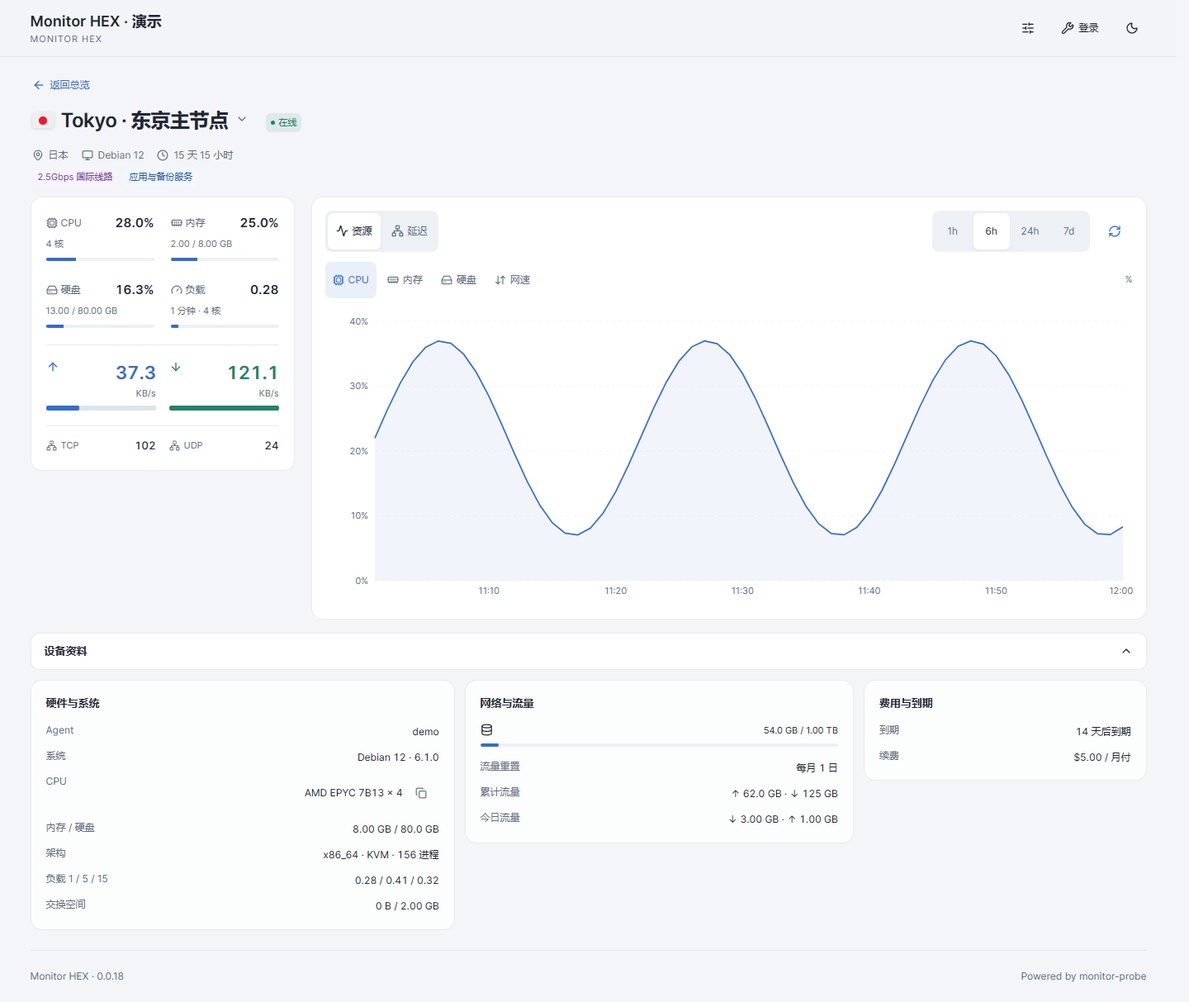
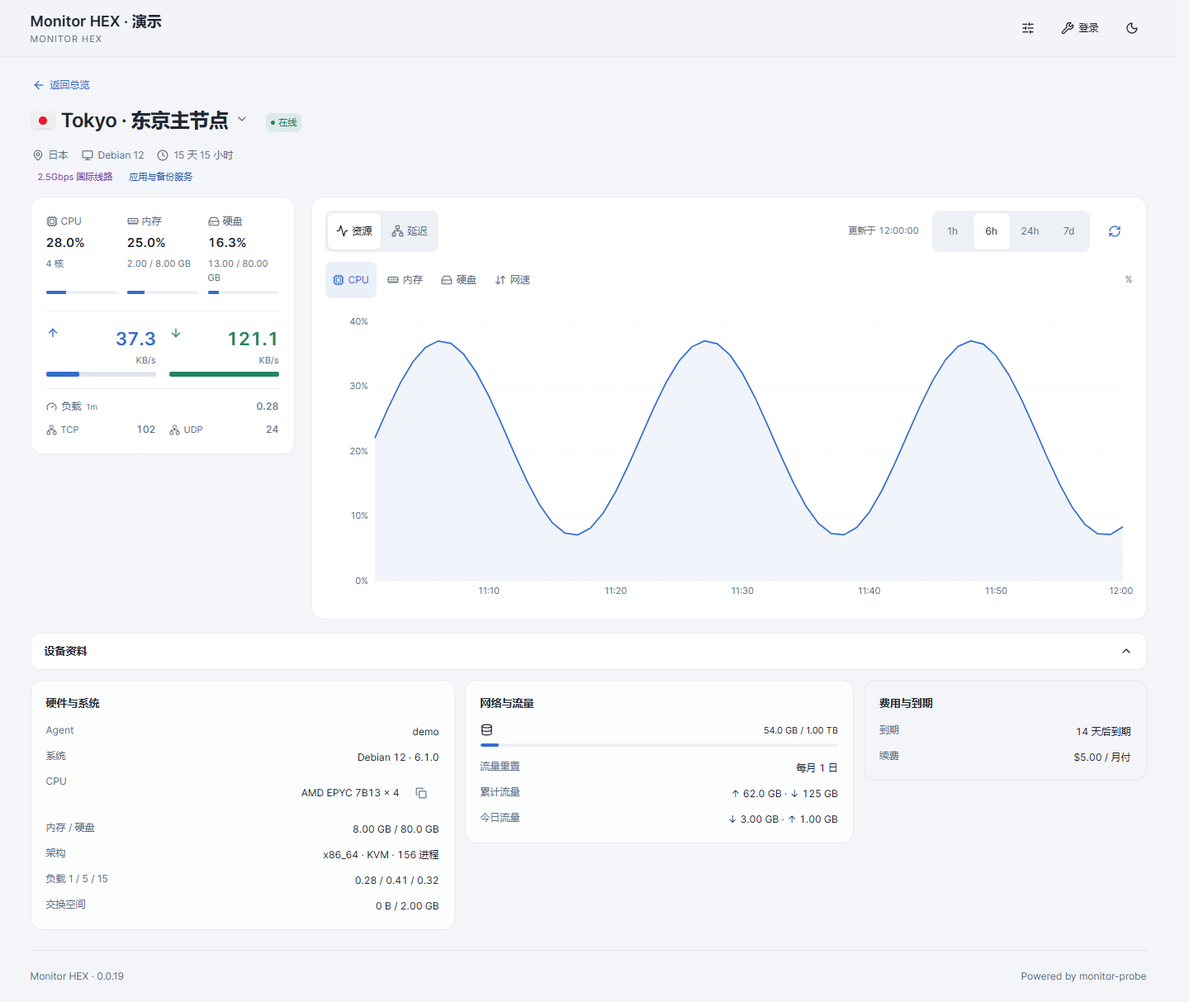
Release v0.0.19: refine detail hierarchy and long content reading

diff --git a/tests/detail-focus.spec.ts b/tests/detail-focus.spec.ts
@@ -1,0 +1,34 @@
+import {test,expect} from '@playwright/test'
+import {nodes,metrics} from '../scripts/fixtures.mjs'
+import {toggleSettings,visualSelect} from './settings'
+async function setup(page:any,long=false){
+ await page.route('**/api/nodes',(r:any)=>r.fulfill({json:{nodes:[{...nodes()[0],name:long?'Tokyo 东京超长名称 '.repeat(18):'Tokyo',cpu_name:'AMD EPYC Processor '.repeat(long?12:1),ipv6:'2001:db8:1234:5678:abcd:1234:5678:abcd',remark:long?Array.from({length:8},(_,i)=>`备注 ${i} ${'Long text '.repeat(8)}`).join(';'):'国际线路;Production'}]}}))
+ await page.route('**/api/nodes/*/metrics?*',(r:any)=>{const d=metrics();return r.fulfill({json:{...d,probes:Object.fromEntries(Array.from({length:12},(_,i)=>[i+1,`Route ${i+1}`])),ping:d.ping.flatMap(p=>Array.from({length:12},(_,i)=>({...p,task_id:i+1,latency:p.latency+i*10})))}})})
+ await page.goto('/node/1');await expect(page.locator('.recharts-area-curve')).toBeVisible()
+}
+for(const width of [320,390,1024,1440])test(`primary metrics and long identity fit at ${width}`,async({page})=>{
+ await page.setViewportSize({width,height:900});await setup(page,true)
+ await expect(page.locator('.detail-resources>.resource')).toHaveCount(3);await expect(page.locator('.detail-load')).toContainText('负载')
+ const expand=page.getByRole('button',{name:'展开名称',exact:true}),heading=(await page.locator('.detail-title h2').boundingBox())!;expect((await expand.boundingBox())!.y).toBeGreaterThanOrEqual(heading.y+heading.height)
+ await expand.click();await expect(page.getByRole('dialog')).toHaveCount(0);await page.getByRole('button',{name:'收起名称',exact:true}).click()
+ await page.getByRole('button',{name:'展开备注',exact:true}).click();await expect(page.locator('.detail-meta-tags .detail-remark-tag')).toHaveCount(8)
+ expect(await page.evaluate(()=>document.documentElement.scrollWidth<=innerWidth)).toBeTruthy();await page.getByRole('button',{name:'收起备注',exact:true}).click()
+ if(width<900)await page.locator('.detail-facts-toggle').click()
+ const cpu=page.getByRole('button',{name:'复制：CPU',exact:true}),dd=cpu.locator('xpath=ancestor::dd'),text=dd.locator('.fact-value');const a=(await text.boundingBox())!,b=(await cpu.boundingBox())!;expect(a.x+a.width).toBeLessThanOrEqual(b.x);expect(b.x+b.width).toBeLessThanOrEqual((await dd.boundingBox())!.x+(await dd.boundingBox())!.width+1)
+ for(const graph of ['bar','ring','columns','minimal']){await toggleSettings(page);await visualSelect(page,'graph',graph);await toggleSettings(page);expect(await page.locator('.detail-live').evaluate(el=>el.scrollWidth<=el.clientWidth)).toBeTruthy();if(graph==='bar'){const bottoms=await page.locator('.detail-resources .resource-bar').evaluateAll(elements=>elements.map(el=>el.getBoundingClientRect().bottom));expect(Math.max(...bottoms)-Math.min(...bottoms)).toBeLessThanOrEqual(1)}}
+})
+test('tooltip follows route list order including selected-first order',async({page})=>{
+ await page.setViewportSize({width:1440,height:900});await setup(page);await page.getByRole('button',{name:'网络延迟',exact:true}).click()
+ const legend=page.locator('.detail-probe-legend'),summary=legend.locator('summary');await summary.click();await legend.getByRole('button',{name:'Route 10',exact:true}).click();await page.keyboard.press('Escape');await summary.click()
+ const order=await legend.locator('.probe-options button').evaluateAll(elements=>elements.map(el=>el.getAttribute('aria-label')));expect(order.slice(0,3)).toEqual(['Route 1','Route 10','Route 2'])
+ await page.getByRole('button',{name:'显示全部线路',exact:true}).click();const frame=page.locator('.detail-chart-frame');await frame.hover({position:{x:160,y:100}});await expect(frame.locator('.recharts-tooltip-wrapper')).toBeVisible()
+ expect(await frame.locator('.recharts-tooltip-item-name').allTextContents()).toEqual(order)
+ await page.getByRole('button',{name:'24 小时',exact:true}).click();await expect(page.locator('.recharts-line-curve')).toHaveCount(12);await frame.hover({position:{x:180,y:100}});expect(await frame.locator('.recharts-tooltip-item-name').allTextContents()).toEqual(order)
+})
+test('update feedback belongs to current range and retained data',async({page})=>{
+ await page.setViewportSize({width:1440,height:900});await setup(page);const status=page.locator('.detail-update'),refresh=page.getByRole('button',{name:'刷新历史',exact:true});await expect(status).toContainText('更新于');const timestamp=await refresh.getAttribute('title')
+ await page.unroute('**/api/nodes/*/metrics?*');await page.route('**/api/nodes/*/metrics?*',r=>r.fulfill({status:503}));await refresh.click();await expect(status).toHaveText('保留上次记录');await expect(refresh).toHaveAttribute('title',timestamp!);await expect(page.locator('.recharts-area-curve')).toBeVisible()
+ await page.getByRole('button',{name:'24 小时',exact:true}).click();await expect(status).toHaveText('更新失败');await expect(refresh).toHaveAttribute('title','刷新历史');await expect(page.locator('.recharts-area-curve')).toHaveCount(0)
+ await page.unroute('**/api/nodes/*/metrics?*');await page.route('**/api/nodes/*/metrics?*',r=>r.fulfill({json:metrics()}));await page.getByRole('button',{name:'重试',exact:true}).click();await expect(status).toContainText('更新于')
+ await page.setViewportSize({width:390,height:844});await expect(status).toBeHidden()
+})

diff --git a/src/components/DetailOverview.tsx b/src/components/DetailOverview.tsx
@@ -2,7 +2,7 @@ import type {Node} from '@/lib/api'
 import {liveMetrics} from '@/lib/freshness'
 import {tr,locale} from '@/lib/i18n'
 import {bytes,percent,pair,osName,uptime} from '@/lib/format'
-import {Clock,Monitor,Network,MapPin} from 'lucide-react'
+import {Clock,Monitor,Network,MapPin,Gauge} from 'lucide-react'
 import {useState} from 'react'
 import {NodePicker} from './NodePicker'
 import {Status} from './NodeIdentity'
@@ -18,7 +18,7 @@ export function DetailIdentity({node,nodes,onSwitch}:{node:Node;nodes:Node[];onS
  return (      <div className="detail-identity">
         <div className="detail-title-row"><div className="detail-title"><NodePicker node={node} nodes={nodes} onSwitch={onSwitch}/></div><div className="node-status-group"><div className="node-ip-tags" aria-label={tr("IP 协议")}>{(node.ipv4 || node.ipv4_pin) && <span className="tag">V4</span>}{(node.ipv6 || node.ipv6_pin) && <span className="tag">V6</span>}</div><Status node={node}/></div></div>
         <div className="detail-subtitle">{country&&<span><MapPin size={14}/>{country}</span>}<span title={tr("系统")}><Monitor size={14}/>{osName(node.os)}</span><span title={tr("在线时长")} aria-label={tr("在线时长")}><Clock size={14}/>{m ? uptime(m.uptime) : '—'}</span></div>
-        {remarkTags.length>0 && <div className="detail-meta-tags"><RemarkTags texts={expanded?remarkTags:remarkTags.slice(0,3)} compact={crowded&&!expanded}/>{crowded&&<button className="detail-remarks-toggle" aria-expanded={expanded} onClick={()=>setExpanded(!expanded)}>{expanded?tr("收起备注"):tr("展开备注")}</button>}</div>}
+        {remarkTags.length>0 && <div className={`detail-meta-tags${expanded?" remarks-expanded":""}`}><RemarkTags texts={expanded?remarkTags:remarkTags.slice(0,3)} compact={crowded&&!expanded}/>{crowded&&<button className="detail-remarks-toggle" aria-expanded={expanded} onClick={()=>setExpanded(!expanded)}>{expanded?tr("收起备注"):tr("展开备注")}</button>}</div>}
       </div>
 )
 }
@@ -29,10 +29,9 @@ export function DetailLiveOverview({node}:{node:Node}){
           <ResourceMetric label="CPU" value={m?.cpu ?? null} foot={tr("{0} 核",node.cpu_cores)}/>
           <ResourceMetric label={tr("内存")} value={m ? percent(m.mem_used,m.mem_total) : null} foot={m ? pair(m.mem_used,m.mem_total) : bytes(node.mem_total)}/>
           <ResourceMetric label={tr("硬盘")} value={m ? percent(m.disk_used,m.disk_total) : null} foot={m ? pair(m.disk_used,m.disk_total) : bytes(node.disk_total)}/>
-          <ResourceMetric label={tr("负载")} value={m && node.cpu_cores > 0 ? m.load[0] / node.cpu_cores * 100 : null} displayValue={m ? m.load[0].toFixed(2) : "—"} foot={tr("1 分钟 · {0} 核",node.cpu_cores)}/>
         </div>
         <SpeedIndicators key={node.id} node={node} detail/>
-        <div className="detail-connections">{([['TCP',m?.tcp],['UDP',m?.udp]] as const).map(([label,value])=><div key={label}><span><Network size={13}/>{label}</span><strong>{value===undefined?'—':value.toLocaleString()}</strong></div>)}</div>
+        <div className="detail-auxiliary"><div className="detail-load" title={tr("1 分钟 · {0} 核",node.cpu_cores)} data-severity={m&&node.cpu_cores>0&&m.load[0]/node.cpu_cores>=.9?"danger":m&&node.cpu_cores>0&&m.load[0]/node.cpu_cores>=.75?"warning":undefined}><span><Gauge size={13}/>{tr("负载")}<small>1m</small></span><strong>{m?m.load[0].toFixed(2):"—"}</strong></div><div className="detail-connections">{([['TCP',m?.tcp],['UDP',m?.udp]] as const).map(([label,value])=><div key={label}><span><Network size={13}/>{label}</span><strong>{value===undefined?'—':value.toLocaleString()}</strong></div>)}</div></div>
       </section>
 )
 }

diff --git a/src/components/NodeDetail.tsx b/src/components/NodeDetail.tsx
@@ -153,6 +153,7 @@ export function NodeDetail({ node, probe = "auto", nodes, onSwitch, detailInfoMo
         const key=`${node.id}:${hours}:${tab}`;
         const previous=retained.current?.key===key?retained.current.value:null;
         setData(previous);
+        if(!previous)setUpdated(null);
         busy.current=true;setLoading(true);
         // oxlint-disable-next-line react/set-state-in-effect
         setZoom(null);
@@ -257,7 +258,7 @@ export function NodeDetail({ node, probe = "auto", nodes, onSwitch, detailInfoMo
       <div className="detail-workspace">
       <DetailLiveOverview node={node}/>
       <section className="detail-history" aria-label={tr("历史图表")}>
-      <DetailToolbar busy={loading} updated={updated} tab={tab} hours={hours} smooth={smooth} hasProbes={pingSeries.length>0} onTab={setTab} onHours={value=>setRanges(all=>({...all,[tab]:value}))} onSmooth={setSmooth} onProbes={mode=>{setHighlightProbe(null);setSelectedProbes(mode==='home'?null:mode==='all'?pingSeries.map(s=>s.id):[])}} onRefresh={refresh}/>
+      <DetailToolbar busy={loading} updated={updated} failed={!!failed} tab={tab} hours={hours} smooth={smooth} hasProbes={pingSeries.length>0} onTab={setTab} onHours={value=>setRanges(all=>({...all,[tab]:value}))} onSmooth={setSmooth} onProbes={mode=>{setHighlightProbe(null);setSelectedProbes(mode==='home'?null:mode==='all'?pingSeries.map(s=>s.id):[])}} onRefresh={refresh}/>
       {eventStart>0&&<p className="event-context">{tr('告警时段：{0} — {1}',new Date(eventStart).toLocaleString(locale()),new Date(eventEnd).toLocaleString(locale()))}{age>168||hours<age?<span>{tr('当前历史范围无法覆盖完整告警时段。')}</span>:data&&!(data.metrics??[]).some(p=>p.ts*1000>=eventStart&&p.ts*1000<=eventEnd)?<span>{tr('此告警时段没有返回历史样本。')}</span>:null}</p>}
       {failed && <div className="history-notice" role="alert"><span>{data && (data.metrics?.length || data.ping?.length)?tr("更新失败，保留上次历史记录。"):tr("读取历史数据失败：")}{failed}</span><button disabled={loading} onClick={refresh}>{tr("重试")}</button></div>}
       <div className="detail-history-body" data-history={tab}>
@@ -285,7 +286,7 @@ export function NodeDetail({ node, probe = "auto", nodes, onSwitch, detailInfoMo
                     {/* Not anchored at zero: these lines live in a narrow band
                     far from it, and zero flattens every wobble. */}
                     <YAxis unit="ms" width={52} domain={["auto", "auto"]} {...AXIS}/>
-                    <Tooltip content={props=><ChartTooltip {...props} compact={compact} dismiss={tooltipDismiss}/>} wrapperStyle={{pointerEvents:'auto'}} trigger={compact?"click":"hover"} allowEscapeViewBox={{x:false,y:false}} cursor={{stroke:"var(--border)",strokeDasharray:"3 4"}} isAnimationActive={false} labelFormatter={(ts) => new Date(Number(ts)).toLocaleString(locale())}
+                    <Tooltip itemSorter={item=>{const id=Number(String(item.dataKey).slice(1));const index=pingSeries.findIndex(s=>s.id===id);return (routeOrder.includes(id)?0:pingSeries.length)+index}} content={props=><ChartTooltip {...props} compact={compact} dismiss={tooltipDismiss}/>} wrapperStyle={{pointerEvents:'auto'}} trigger={compact?"click":"hover"} allowEscapeViewBox={{x:false,y:false}} cursor={{stroke:"var(--border)",strokeDasharray:"3 4"}} isAnimationActive={false} labelFormatter={(ts) => new Date(Number(ts)).toLocaleString(locale())}
             // The line is drawn from what answered, so without this a
             // bucket that lost most of its packets reads as normal.
             // `dataKey` is `t7`/`s7`; the loss sits at `l7`.

diff --git a/src/styles/detail-reading.css b/src/styles/detail-reading.css
@@ -148,3 +148,34 @@ main:has(>.node-detail)>.detail-navigation {margin-bottom:4px}
 @media(min-width:900px){.detail-history {padding:16px}}
 
 .detail-chart-frame {container-type:inline-size}
+
+/* v0.0.19: distinguish primary readings from supporting facts. */
+.detail-resources {grid-template-columns:repeat(3,minmax(0,1fr));gap:12px}
+.node-detail .detail-live .resource-label {flex-direction:column;align-items:flex-start;gap:6px}
+.detail-live .resource small {font-variant-numeric:tabular-nums}
+.detail-auxiliary {margin-top:14px;padding-top:12px;border-top:1px solid var(--detail-line);display:grid;gap:10px;color:var(--muted-foreground);font-size:12px}
+.detail-load,.detail-load>span {display:flex;align-items:center;gap:6px}
+.detail-load small {font-size:10px}.detail-load strong {margin-left:auto;font-weight:500;font-variant-numeric:tabular-nums}
+.detail-load[data-severity=warning] strong {color:var(--warn)}.detail-load[data-severity=danger] strong {color:var(--destructive)}
+.detail-auxiliary .detail-connections {margin:0;padding:0;border:0;gap:16px}
+.detail-auxiliary .detail-connections strong {font-size:12px;font-weight:500;color:var(--muted-foreground)}
+.detail-title {display:block}
+.detail-title-expand {display:block;padding-left:0}
+.detail-meta-tags.remarks-expanded {display:flex;align-items:flex-start;gap:6px 12px;padding-left:10px;border-left:2px solid var(--detail-line)}
+.detail-meta-tags.remarks-expanded .detail-remark-tag {background:transparent;color:var(--muted-foreground);padding:4px 0;line-height:1.7;max-width:100%}
+.detail-meta-tags.remarks-expanded .detail-remarks-toggle {flex-basis:100%;text-align:left;padding-left:0}
+.detail-facts dd:has(.copy-control) {display:grid;grid-template-columns:minmax(0,1fr) 44px;gap:4px;padding:0;align-items:start}
+.detail-facts dd>.copy-control {position:relative;right:auto;top:auto;margin:0}
+.detail-facts dd:has(.copy-control) .fact-value {text-align:left;padding-top:12px;min-width:0;overflow-wrap:anywhere}
+.detail-information .detail-billing {background:transparent;border-color:var(--detail-line)}
+.detail-update {display:none;color:var(--muted-foreground);font-size:11px;font-variant-numeric:tabular-nums;white-space:nowrap}
+.detail-update[data-failed=true] {color:var(--warn)}
+@media(min-width:1200px){
+ .detail-chart-toolbar {grid-template-columns:auto minmax(0,1fr) auto 44px}
+ .detail-update {display:block;grid-column:2;grid-row:1;justify-self:end;padding-right:8px}
+ .detail-chart-toolbar .detail-ranges {grid-column:3}
+ .detail-chart-toolbar .detail-refresh {grid-column:4}
+}
+@media(max-width:360px){.detail-resources {gap:8px}.detail-live .resource-label>span {gap:3px;font-size:11px}.detail-live .resource-label>span svg {width:12px}.detail-live .bar-number {font-size:14px}}
+.detail-resources .resource small {flex:1}
+.detail-facts dd:has(.copy-control) .fact-value {justify-self:end;max-width:100%}

diff --git a/src/components/DetailToolbar.tsx b/src/components/DetailToolbar.tsx
@@ -25,10 +25,10 @@ function Tab({ active, onClick, children, label }: {
     </button>);
 }
 export type HistoryTab='resources'|'latency'
-export function DetailToolbar({busy,updated,tab,hours,smooth,hasProbes,onTab,onHours,onSmooth,onProbes,onRefresh}:{busy:boolean;updated:number|null;tab:HistoryTab;hours:number;smooth:boolean;hasProbes:boolean;onTab:(tab:HistoryTab)=>void;onHours:(hours:number)=>void;onSmooth:(value:boolean)=>void;onProbes:(mode:'home'|'all'|'none')=>void;onRefresh:()=>void}){
+export function DetailToolbar({busy,updated,failed,tab,hours,smooth,hasProbes,onTab,onHours,onSmooth,onProbes,onRefresh}:{busy:boolean;updated:number|null;failed:boolean;tab:HistoryTab;hours:number;smooth:boolean;hasProbes:boolean;onTab:(tab:HistoryTab)=>void;onHours:(hours:number)=>void;onSmooth:(value:boolean)=>void;onProbes:(mode:'home'|'all'|'none')=>void;onRefresh:()=>void}){
  return (      <><div id="latency" className="detail-chart-toolbar">
         <div className="detail-tabs" role="group" aria-label={tr("图表类型")}>{TABS.map(t=><Tab key={t.key} label={tr(t.label)} active={tab===t.key} onClick={()=>onTab(t.key)}>{t.key==="resources" ? <Activity size={15}/> : <Network size={15}/>}<span>{tr(t.key==="resources" ? "资源" : "延迟")}</span></Tab>)}</div>
-        <div className="detail-ranges" role="group" aria-label={tr("时间范围")}>{RANGES_FOR[tab].map(r=><Tab key={r.hours} label={tr(r.label)} active={hours===r.hours} onClick={()=>onHours(r.hours)}>{r.hours===168 ? "7d" : `${r.hours}h`}</Tab>)}</div>
+        <span className="detail-update" data-failed={failed} title={updated?tr("最后成功获取：{0}",new Date(updated).toLocaleString(locale())):undefined}>{busy?tr("正在更新"):failed?(updated?tr("保留上次记录"):tr("更新失败")):updated?tr("更新于 {0}",new Date(updated).toLocaleTimeString(locale(),{hour:"2-digit",minute:"2-digit",second:"2-digit"})):tr("等待数据")}</span><div className="detail-ranges" role="group" aria-label={tr("时间范围")}>{RANGES_FOR[tab].map(r=><Tab key={r.hours} label={tr(r.label)} active={hours===r.hours} onClick={()=>onHours(r.hours)}>{r.hours===168 ? "7d" : `${r.hours}h`}</Tab>)}</div>
         <button className="detail-refresh" disabled={busy} aria-busy={busy} aria-label={tr("刷新历史")} title={updated?tr("最后成功获取：{0}",new Date(updated).toLocaleString(locale())):tr("刷新历史")} onClick={onRefresh}><RefreshCw size={16}/></button>
       </div>{tab==='latency' && <div className="detail-latency-tools">
         <label className="detail-smooth" title={tr("平滑仅改变图线显示，不修改原始数据。")}><input type="checkbox" aria-label={tr("平滑显示")} checked={smooth} onChange={e=>onSmooth(e.target.checked)}/><Waves size={16} aria-hidden="true"/>{tr("平滑")}</label>

diff --git a/src/components/DetailFacts.tsx b/src/components/DetailFacts.tsx
@@ -19,7 +19,7 @@ function Fact({ label, value, warning=false,copy=false }: {
         return null;
     return (<div className="min-w-0">
       <dt className="text-xs text-muted-foreground">{label}</dt>
-      <dd className={`detail-fact text-sm ${warning?"detail-expiry-warning":""}`}>{value}{copy&&<span className="copy-control"><button className="copy-fact" aria-label={tr("复制：{0}",label)} title={tr("复制：{0}",label)} onClick={copyValue}>{notice===tr("已复制")?<Check size={14}/>:<Copy size={14}/>}</button>{notice&&<small role="status" className="copy-notice">{notice}</small>}</span>}</dd>
+      <dd className={`detail-fact text-sm ${warning?"detail-expiry-warning":""}`}><span className="fact-value">{value}</span>{copy&&<span className="copy-control"><button className="copy-fact" aria-label={tr("复制：{0}",label)} title={tr("复制：{0}",label)} onClick={copyValue}>{notice===tr("已复制")?<Check size={14}/>:<Copy size={14}/>}</button>{notice&&<small role="status" className="copy-notice">{notice}</small>}</span>}</dd>
     </div>);
 }
 export function DetailFacts({node,mode,compact,onMode}:{node:Node;mode:Preferences['detailInfoMode'];compact:boolean;onMode:(mode:Preferences['detailInfoMode'])=>void}){
@@ -44,7 +44,7 @@ export function DetailFacts({node,mode,compact,onMode}:{node:Node;mode:Preferenc
         <Fact copy label="IPv4" value={node.ipv4}/><Fact copy label="IPv6" value={node.ipv6}/><Fact label={tr("流量重置")} value={Number.isInteger(node.traffic_reset_day) && node.traffic_reset_day >= 1 && node.traffic_reset_day <= 31 ? tr("每月 {0} 日",node.traffic_reset_day) : tr("未知")}/>
 <Fact label={tr("累计流量")} value={`↑ ${bytes(node.total_tx)} · ↓ ${bytes(node.total_rx)}`}/>
         <Fact label={tr("今日流量")} value={`↓ ${bytes(node.day_rx)} · ↑ ${bytes(node.day_tx)}`}/>
-      </dl></section><section aria-label={tr("费用与到期")}><h3>{tr("费用与到期")}</h3><dl className="detail-facts">
+      </dl></section><section className="detail-billing" aria-label={tr("费用与到期")}><h3>{tr("费用与到期")}</h3><dl className="detail-facts">
         <Fact label={tr("到期")} value={expiryLabel} warning={days!==null && days<=7}/>
         <Fact label={tr("续费")} value={[
             node.price > 0

diff --git a/tests/detail-routes.spec.ts b/tests/detail-routes.spec.ts
@@ -53,7 +53,7 @@ test('missing home route stays empty, offline live metrics are unknown, long nam
  await page.route('**/api/nodes',r=>r.fulfill({json:{nodes:[node]}}))
  await page.goto('/node/1#latency')
  await expect(page.locator('.detail-chart-frame')).toContainText('无该线路记录')
- await expect(page.locator('.detail-live .bar-number')).toHaveText(['—','—','—','—'])
+ await expect(page.locator('.detail-live .bar-number')).toHaveText(['—','—','—']);await expect(page.locator('.detail-load strong')).toHaveText('—')
  for(const width of [320,390]) {
   await page.setViewportSize({width,height:900})
   expect(await page.evaluate(()=>document.documentElement.scrollWidth<=innerWidth)).toBeTruthy()

diff --git a/src/lib/en.ts b/src/lib/en.ts
@@ -1,4 +1,8 @@
 export const english: Record<string, string> = {
+"正在更新":"Updating",
+"保留上次记录":"Previous data",
+"更新失败":"Update failed",
+"更新于 {0}":"Updated {0}",
 "关闭图表提示":"Close chart tooltip",
 "展开名称":"Expand name",
 "收起名称":"Collapse name",

diff --git a/REVIEW-v0.0.19.md b/REVIEW-v0.0.19.md
@@ -1,0 +1,48 @@
+# v0.0.19 详情阅读层级与长内容验收
+
+2026-09-21。基线 v0.0.18（08f6233）。用户授权实施、验收后直接发布。
+
+## 实施结果
+
+- 主读数改为 CPU、内存、硬盘三列，保持四种指标样式。负载与 TCP/UDP 移入辅助组；负载按原有相对核心数阈值保留提醒颜色，离线未知值仍为 —。用量换行时进度条仍对齐。
+- 标题与独立展开按钮改为纵向关系，避免长标题与按钮争夺横向空间。备注默认保持短标签，展开后使用弱化背景、左侧细线和自然换行，全文保留。
+- 复制资料使用文字/按钮两列，长值不侵入按钮，短值靠近按钮；成功时效、失败重试和完整复制保持。费用区使用透明背景降低视觉权重。
+- 延迟 Tooltip 的排序使用线路 ID 和当前面板优先级，与线路列表顺序一致，不按名称字典排序。既有桌面曲线高亮继续使用；手机仍是点选模式。
+- 1200px 起工具栏显示更新时间、更新中或保留上次记录。切换到没有可保留数据的范围时清除旧时间；刷新失败保留同范围数据及其时间。手机与中等屏幕不增加常驻行，刷新按钮保留时间提示。
+- 试排宽桌面 280px 侧栏后，图表仅增加 40px，而资源用量发生更多换行。未采用该候选，保留 320px（中等屏幕 280px）栏宽和 v0.0.18 绘图区高度。不新增设置项。
+
+## 验收结果
+
+| 项目 | 结果 |
+| --- | --- |
+| lint、业务测试、生产构建与打包 | 通过；431 处字面量翻译调用检查通过 |
+| Chrome | 128 项覆盖通过：全量首轮 127 项通过，1 项旧离线布局断言仍寻找四个主读数；更新为三项主读数与独立负载未知值后，所属 detail-routes 的 3 项定向复测全部通过 |
+| Edge | 64/64，覆盖新专项、详情比例/布局/阅读、稳定性与导航 |
+| 新专项 6 项 | 320/390/1024/1440px 长名称、8 条长备注、CPU 长值与复制按钮、四样式无溢出、进度条基线；提示面板顺序；当前范围更新时间归属 |
+| 提示排序 | Route 1、Route 10 已选优先后，Tooltip 与面板顺序一致；范围切换保持；未使用名称字典排序 |
+| 时间与失败 | 同范围失败保留曲线与时间；新范围失败清空旧时间且不显示旧曲线；重试恢复；390px 不显示常驻时间行 |
+| 既有矩阵 | 320/390/430/720/899/900/1024/1440/1920px 深浅色、双语、四样式，以及1199/1200边界通过 |
+| 既有行为 | 首屏工具栏与桌面资料、提示关闭与裁切、线路搜索、复制、离线与缺失样本、返回定位、导入导出、偏好保存及首页回归通过 |
+
+测试为分层覆盖，使用本地演示 API 和故障模拟。离线断言更新保留了原来的未知值检查，只调整了负载的所在位置。
+
+## 视觉证据
+
+- [桌面详情](screenshots/detail-light.png)
+- [桌面深色详情](screenshots/v0.0.19/desktop-detail-dark.png)
+- [手机详情](screenshots/v0.0.19/mobile-detail-light.png)
+- [320px 长内容](screenshots/v0.0.19/long-mobile-light.png)
+- [320px 深色长内容](screenshots/v0.0.19/long-mobile-dark.png)
+- [手机线路提示](screenshots/v0.0.19/mobile-tooltip.png)
+- [桌面前后对比](screenshots/v0.0.19/compare-desktop-detail.png)
+- [手机前后对比](screenshots/v0.0.19/compare-mobile-detail.png)
+- [保留的 320px 侧栏](screenshots/v0.0.19/sidebar-320.png)
+- [未采用的 280px 侧栏](screenshots/v0.0.19/sidebar-trial-280.png)
+
+脚本 scripts/capture-detail-focus.mjs、capture-detail-focus-interactions.mjs、capture-detail-focus-proof.mjs 生成当前截图、对比和长内容证据。README 的 12 张预览仅展示 v0.0.19；首页未变化的图片重新截图后可能字节相同。历史截图只保留在历史验收记录中。
+
+## 发布边界
+
+版本 0.0.19，短名 hex，在线更新地址 https://github.com/8bitNull/Monitor-Hex。附件 theme.tar.gz 和 theme.tar.gz.sha256。
+
+实体手机、iOS Safari、系统软键盘、动态地址栏与真实服务器部署未验证；桌面浏览器手机视口测试不替代实体设备验收。本次发布不代表已部署至用户线上站点。

diff --git a/ACCEPTANCE.md b/ACCEPTANCE.md
@@ -1,10 +1,10 @@
-# Monitor HEX 0.0.18 检查说明
+# Monitor HEX 0.0.19 检查说明
 
 当前源码的检查入口如下。测试使用本地演示数据，不代表已完成真实服务器部署验证。
 
 ## 最近验证
 
-2026-09-21：v0.0.18 静态检查、业务测试、425 处字面量翻译检查与生产构建通过。Chrome 全量 122/122，Edge 详情布局、阅读、稳定性与导航 58/58。完整记录见 REVIEW-v0.0.18.md。
+2026-09-21：v0.0.19 静态检查、业务测试、431 处字面量翻译检查与生产构建通过。Chrome 全量 128 项通过（含更新离线布局断言后的定向复测），Edge 详情布局、阅读、稳定性与导航 64/64。完整记录见 REVIEW-v0.0.19.md。
 
 ## 自动检查
 
@@ -22,7 +22,9 @@ npm run test:e2e
 
 ## 浏览器检查范围
 
-122 项用例按功能组织：
+128 项用例按功能组织：
+
+- `detail-focus.spec.ts`：三项主指标、长标题/备注、长资料复制区域、提示顺序及刷新时间归属。
 
 - `detail-proportion.spec.ts`：布局边界、首屏资料、费用横栏、提示精度与裁切、线路样式稳定性、加载/空/失败画布。
 
@@ -61,4 +63,4 @@ npm run test:e2e
 
 历史范围依赖后端实际保留的数据。高负载事件是浏览器本地记录，仅覆盖页面监测期间，不等同于服务端持续告警。线上数据与后端兼容性仍需部署后核对。
 
-手机测试采用浏览器视口模拟，未进行实体手机或 iOS Safari 验证。完整本版验收记录见 `REVIEW-v0.0.18.md`。
+手机测试采用浏览器视口模拟，未进行实体手机或 iOS Safari 验证。完整本版验收记录见 `REVIEW-v0.0.19.md`。

diff --git a/CHANGELOG.md b/CHANGELOG.md
@@ -1,5 +1,15 @@
 # Monitor HEX 当前版本
 
+## 0.0.19
+
+- 详情实时概况突出 CPU、内存和硬盘，负载与连接数移入辅助分组，统一数值和进度条对齐。
+- 长名称展开按钮移至标题下方，展开备注改用轻量自然换行文本，费用资料降低背景权重。
+- CPU、IPv6 等可复制长值与按钮分列，避免文字占用按钮空间，保持完整复制和稳定反馈。
+- 延迟提示按线路面板顺序排列，不再使用名称字典排序；桌面曲线高亮继续保留。
+- 1200px 起展示低存在感的更新时间，失败明确保留旧记录；切换范围清除其他范围的成功时间。
+- 侧栏收窄试排未采用，保留宽桌面 320px 栏宽与现有绘图区高度。
+- README 更新为当前版本，验收见 REVIEW-v0.0.19.md。
+
 ## 0.0.18
 
 - 桌面绘图区调至 360px，缩减顶部及内部留白，让标准内容的资料首行进入 1440×900 首屏。
